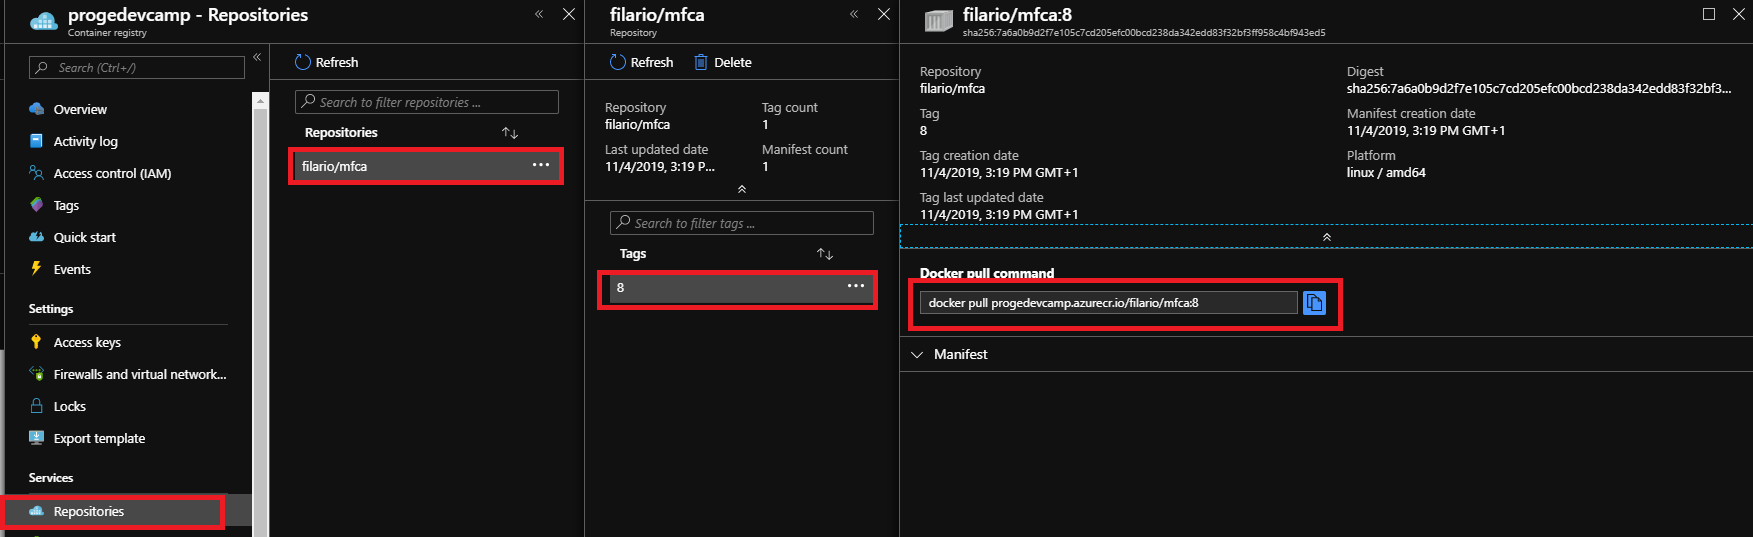
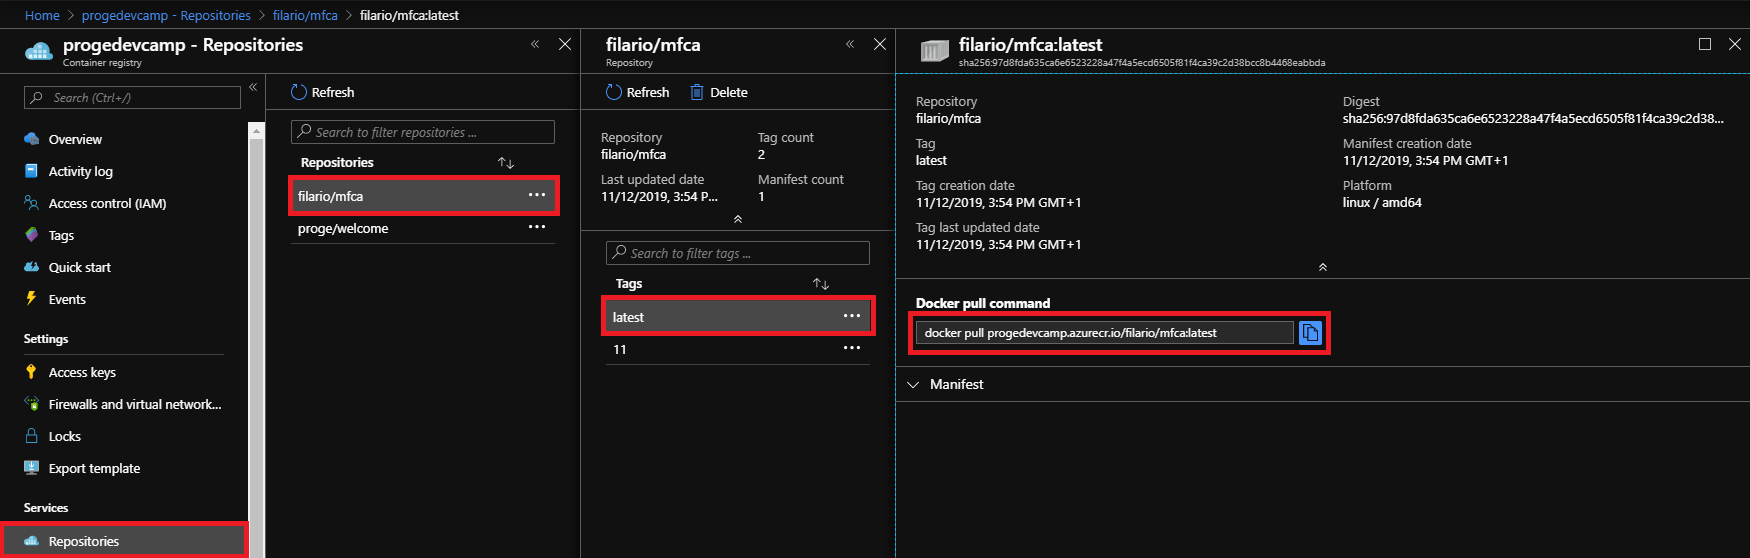
HOL 15: ex 7

diff --git a/HOL/dotnet/15-Container/README.md b/HOL/dotnet/15-Container/README.md
@@ -286,7 +286,7 @@ With Compose, you use a YAML file to configure your application’s services. Th
 
 1. When the build pipeline is complete we will find our docker image pulled in the `devcamp` Azure Container Registry (ACR)
 
-    ![image](./media/15-04-16_Portal_ACR_PulledImage.png)
+    ![image](./media/15-04-16_Portal_ACR_PushedImage.png)
 
 
 ## Exercise 5: Run our docker image locally
@@ -353,6 +353,58 @@ With Compose, you use a YAML file to configure your application’s services. Th
 
 ## Exercise 7: Create a release pipeline that gets the image from container and deploy on a slot
 
+1. In ADO select the `Releases` blade under the `Pipelines` one anche hit `New Pipeline`
+
+    ![image](./media/15-07-01_ADO_Pipeline_Release.png)
+
+1. Look for `containers`, select `Azure App Service deployment`, and click on the `Apply` button that will appear in the selected box.
+
+    ![image](./media/15-07-02_ADO_Pipeline_Release_NewPipeline.png)
+
+1. Click on the tab `Tasks` and in the azure subscription select the `Microsoft Azure Sponsorship` one.
+
+    ![image](./media/15-07-03_ADO_Pipeline_Release_Tasks_Subscription.png)
+
+1. Click on the arrow in the button `Authorize` and select `Advanced Options`
+
+    ![image](./media/15-07-04_ADO_Pipeline_Release_New_Auth_AdvancedOptions.png)
+
+1. Select the resource group `Corso-MS-Cloud` and hit `OK`
+
+    ![image](./media/15-07-05_ADO_Pipeline_Release_New_AuthConnection.png)
+
+1. Fill the form as follows and finally hit `Save`:
+   - App Type: `Web App for Containers (Linux)`
+   - App service name: choose in the dropdown your containerapp
+   - Registry or Namespace: `progedevcamp.azurecr.io`
+   - Repository: {YOUR_PROGE_NAME}/mfca:latest
+
+    ![image](./media/15-07-06_ADO_Pipeline_Release_New_Task.png)
+
+1. Now click the `Create Release` button
+
+    ![image](./media/15-07-07_ADO_Pipeline_Release_CreateRelease.png)
+
+1. Hit `Create`
+
+    ![image](./media/15-07-08_ADO_Pipeline_Release_CreateRelease_Create.png)
+
+1. Click on the link `Release 1` contained in the notification appeared
+
+    ![image](./media/15-07-09_ADO_Pipeline_Release_CreateRelease_Created.png)
+
+1. Wait for the process to complete
+
+    ![image](./media/15-07-10_ADO_Pipeline_Release_Running.png)
+
+1. In Azure Portal open the details of your container app Web Service in the resource group
+   Corso-MS-Cloud, then click on the `Browse`button.
+   
+    ![image](./media/15-07-11_Portal_AppService_Container_Deployed_Overview_Browse.png)
+
+1. The browsed website is your running container and appear like the following image
+
+    ![image](./media/15-07-12_AppService_Container_VisitedSite.png)
 
 
 ## Containers orchestrators
